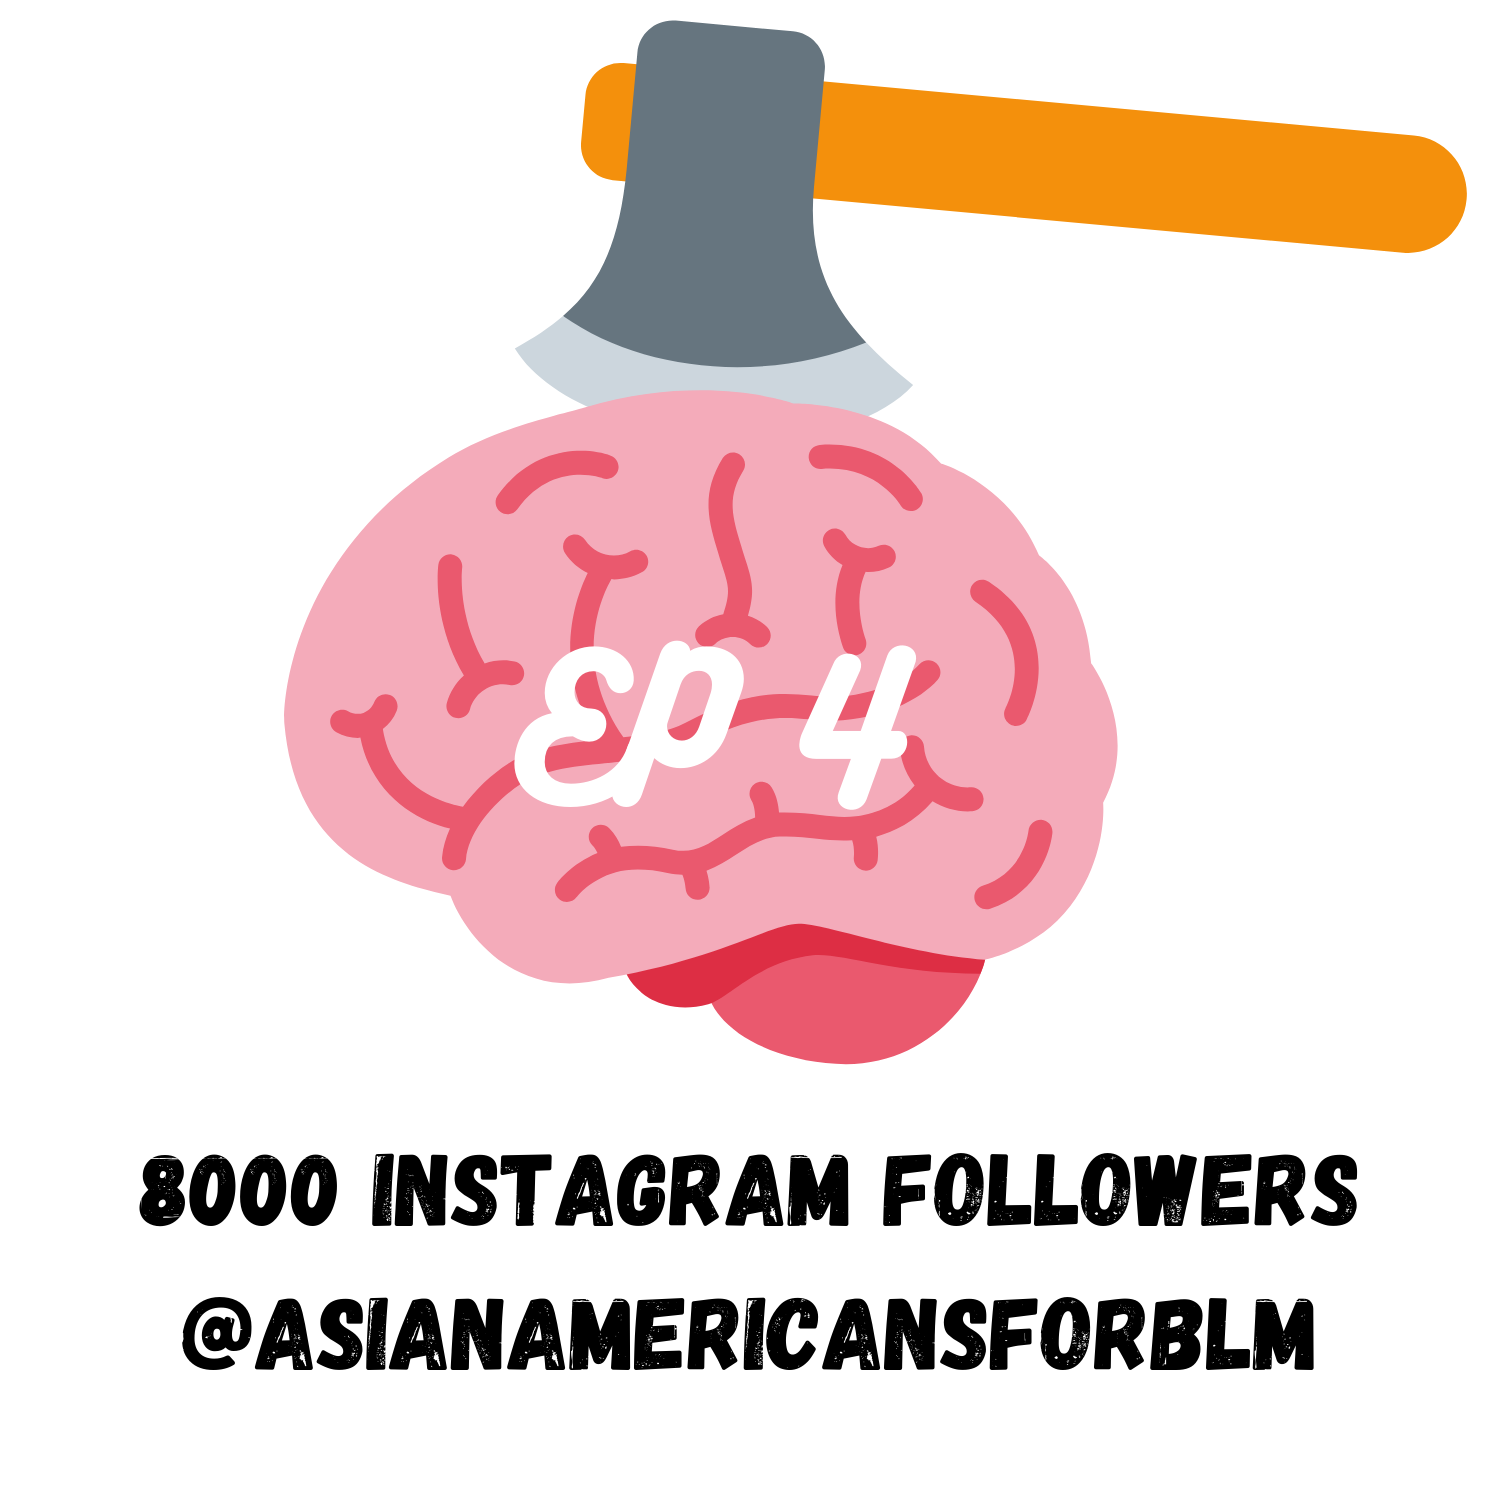
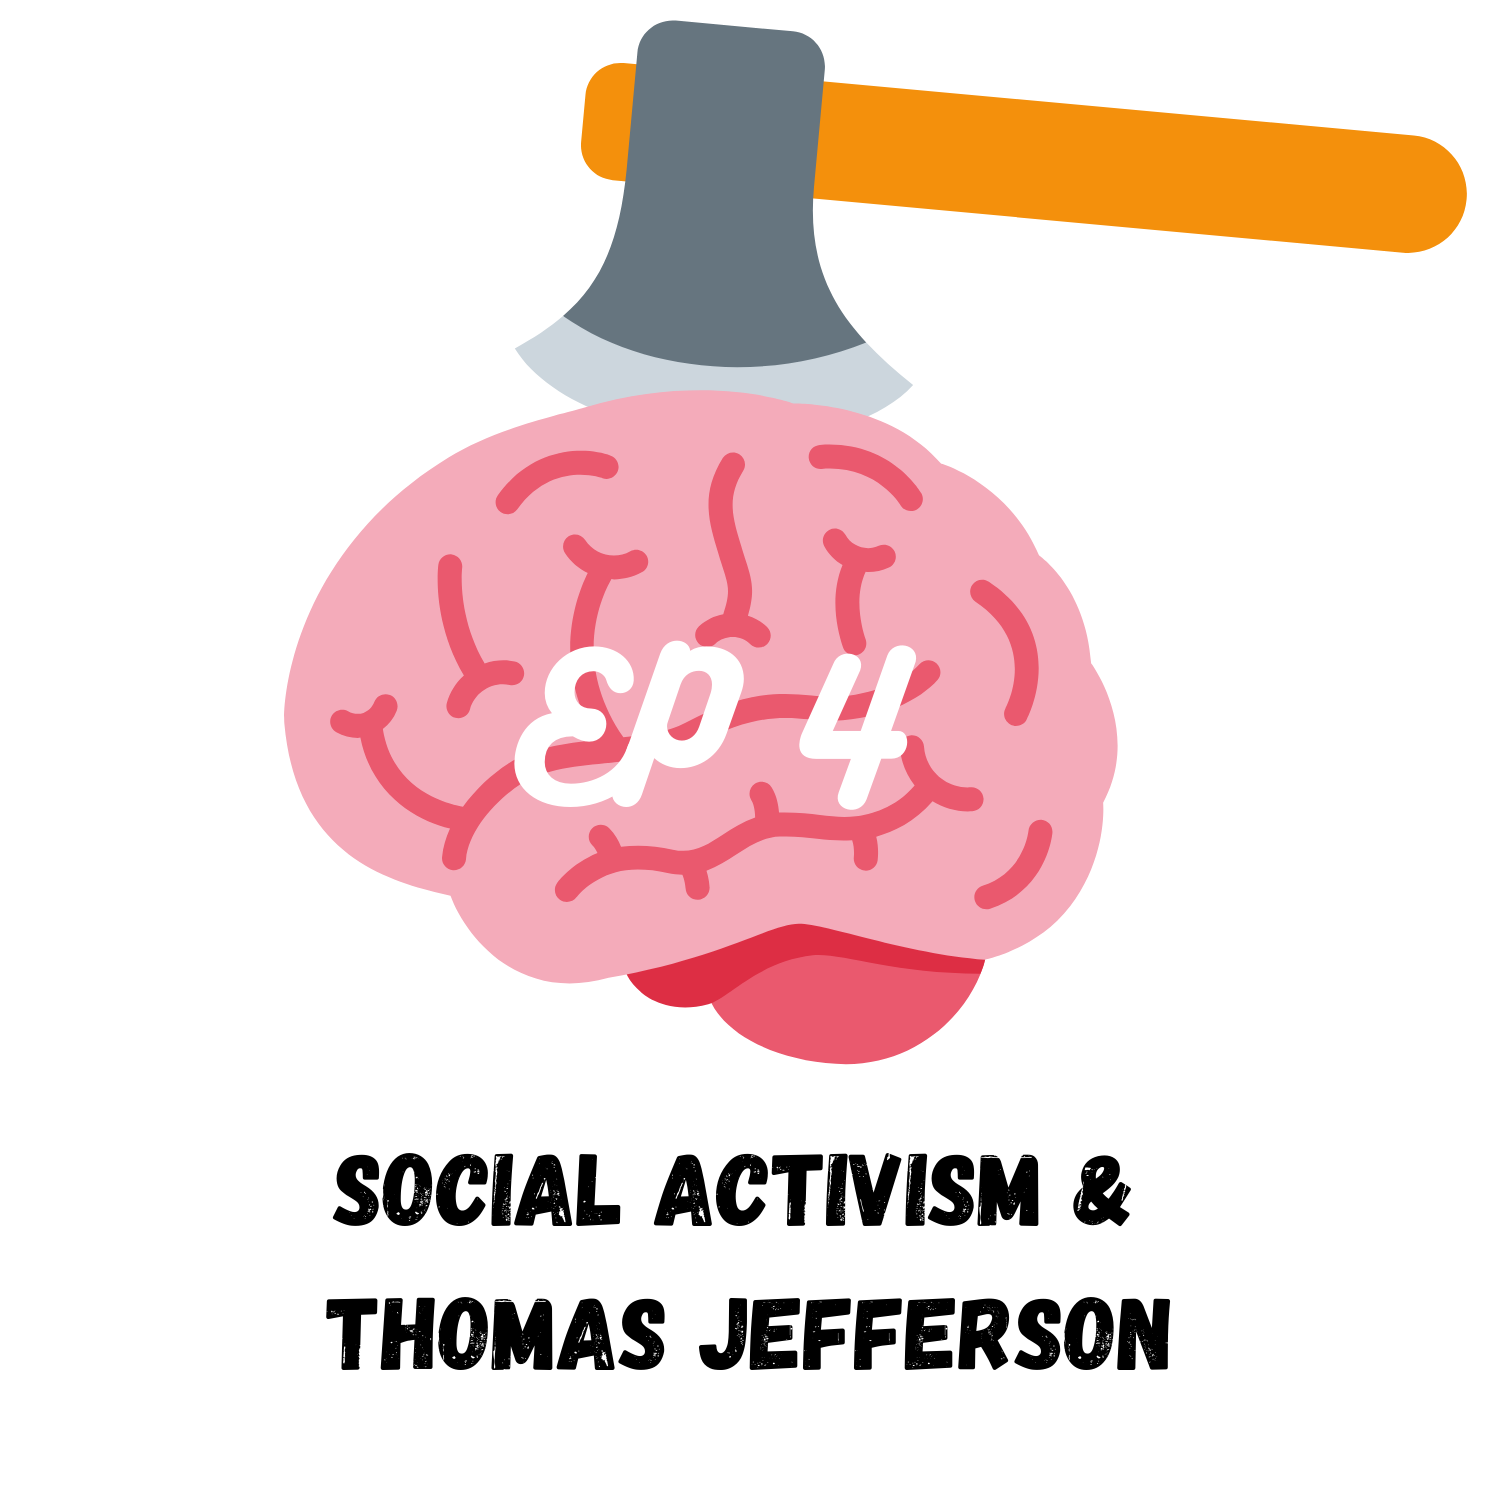
Update Ep 04 title and cover art

Changed region(s): [[0.092, 0.7667, 0.92, 0.828], [0.1227, 0.8587, 0.8893, 0.92]]

diff --git a/itsoverpod/episode4.html b/itsoverpod/episode4.html
@@ -64,7 +64,7 @@
 			<!-- Main -->
 			<div id="main">
 				<div class="inner">
-					<h1>Episode 4 - 8000 Instagram Followers @AsianAmericansForBLM - Amelie Lee</h1>
+					<h1>Episode 4 - Social Activism & Thomas Jefferson - Amelie Lee</h1>
 					<p>
 						<strong>July 22, 2020</strong><br><br>
 						Growing up in a conservative, first-generation Asian American household can make it difficult and uncomfortable to talk about race relations in America. Amelie encourages us to challenge institutionalized and internalized racism, recognize that minority/ethnic groups face different obstacles, and keep an open mind by providing resources through her fast-growing Instagram account.<br><br>

diff --git a/itsoverpod/episodes.html b/itsoverpod/episodes.html
@@ -90,7 +90,7 @@
 							<a href="episode4">
 								<div class="content">
 									<h2>Episode 4</h2>
-									<p>8000 Instagram Followers @AsianAmericansForBLM — Amelie Lee</p>
+									<p>Social Activism & Thomas Jefferson — Amelie Lee</p>
 								</div>
 							</a>
 						</article>

diff --git a/itsoverpod/index.html b/itsoverpod/index.html
@@ -86,7 +86,7 @@
 							<a href="episode4">
 								<div class="content">
 									<h2>Episode 4</h2>
-									<p>8000 Instagram Followers @AsianAmericansForBLM — Amelie Lee</p>
+									<p>Social Activism & Thomas Jefferson — Amelie Lee</p>
 								</div>
 							</a>
 						</article>
